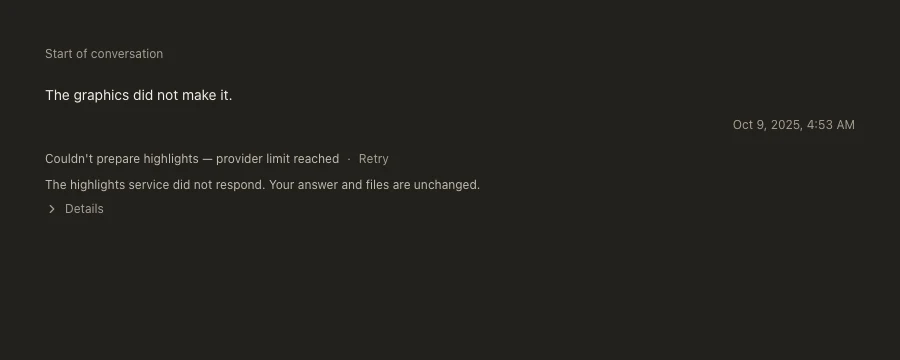
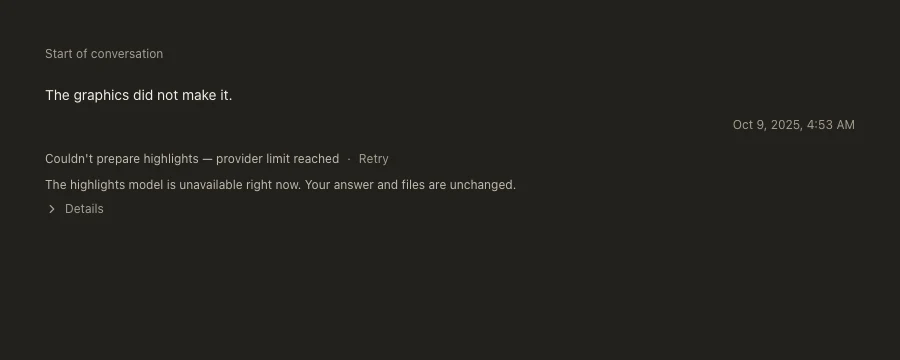
fix(chat): re-shoot the failed-cause story on a quota-ending fixture
Design review round 1's D1: the fixture paired cause=provider_quota with a
transient-last detail line, a combination product cannot produce (both
derive from the same exception); the last line is now quota-kind, so the
sentence reads "The highlights model is unavailable right now." The pair
is re-captured in both themes.

D2: the `failed` STORIES row's declared height now matches its 360px frame
(inert metadata; nothing reads it).

QA note 1: the capture how-to now records how a cold storybook's first hit
can miss the 10s theme budget (vite dep optimization) and that a warm
retry takes.

Changed region(s): [[0.1244, 0.4889, 0.56, 0.55]]

diff --git a/src/renderer/src/features/chat/canonical/supplement.stories.tsx b/src/renderer/src/features/chat/canonical/supplement.stories.tsx
@@ -740,7 +740,7 @@ export const FailedCauseQuota: StoryObj = {
 					],
 					detail: [
 						"turn 1: ProviderError status=None kind=quota",
-						"turn 2: ProviderError status=503 kind=transient",
+						"turn 2: ProviderError status=429 kind=quota",
 					],
 				}),
 			]}
